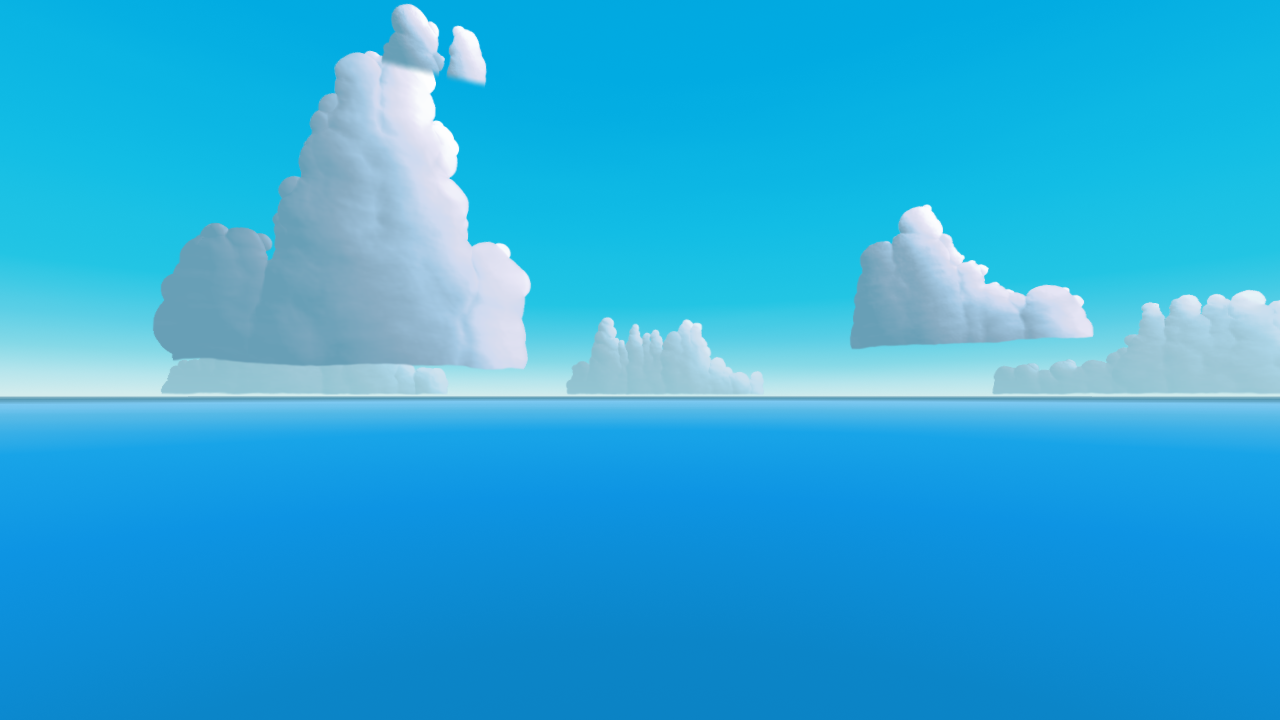
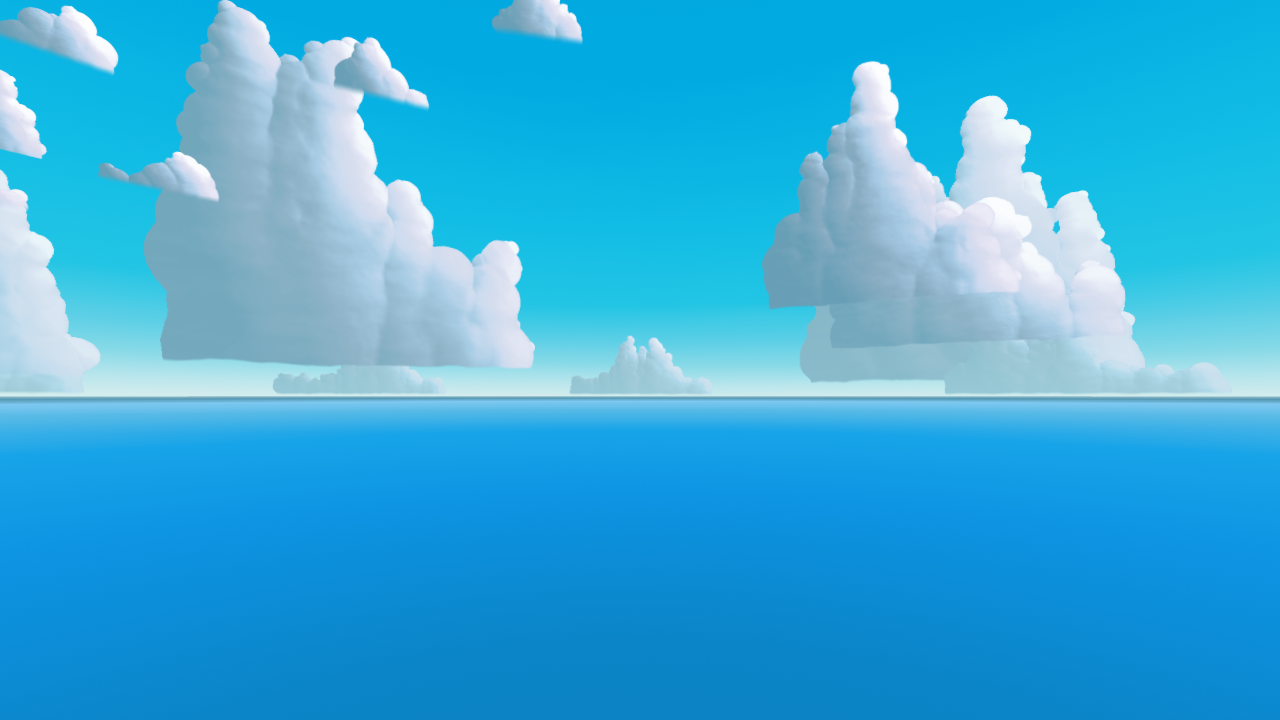
Add train motion and multiplane cloud layers
The world slides past the train along the track, and the clouds are split into
far, mid, near and overhead layers at real distances, so nearer layers drift
past faster than far ones. Panels wrap around the ends of their layer, fading
into the haze far ahead or behind. The sea's paint scrolls with the motion.
The screenshot tool can capture frames along the ride.

Claude-Session: https://claude.ai/code/session_01S8rAC1BDVDohmZcLHLrPfb

diff --git a/src/clouds.js b/src/clouds.js
@@ -223,9 +223,9 @@ const bakeScene = new THREE.Scene();
 bakeScene.add(new THREE.Mesh(new THREE.PlaneGeometry(2, 2), bakeMaterial));
 const bakeCamera = new THREE.OrthographicCamera(-1, 1, 1, -1, 0, 1);
 
-function bakeCloud(renderer, { seed, kind, sunLocal }) {
+function bakeCloud(renderer, { seed, kind, sunLocal, res = 1 }) {
   const k = KINDS[kind];
-  const [w, h] = k.size;
+  const [w, h] = k.size.map((n) => Math.round(n * res));
   const rng = mulberry32(seed);
   const puffs = layoutPuffs(rng, k);
   const { baseY, topY } = fitPuffs(puffs, w, h);
@@ -272,6 +272,7 @@ function cloudMaterial(texture, haze) {
       map: { value: texture },
       hazeColor: { value: new THREE.Color(PALETTE.sky[1][1]) },
       haze: { value: haze },
+      opacity: { value: 1 },
     },
     vertexShader: /* glsl */ `
       varying vec2 vUv;
@@ -283,14 +284,14 @@ function cloudMaterial(texture, haze) {
     fragmentShader: /* glsl */ `
       uniform sampler2D map;
       uniform vec3 hazeColor;
-      uniform float haze;
+      uniform float haze, opacity;
       varying vec2 vUv;
       void main() {
         vec4 t = texture2D(map, vUv);
-        if (t.a < 0.004) discard;
+        if (t.a * opacity < 0.004) discard;
         // Aerial perspective: distant clouds and cloud bases sink into the haze.
         vec3 c = mix(t.rgb, hazeColor, haze * (1.0 - 0.5 * vUv.y));
-        gl_FragColor = vec4(c, t.a);
+        gl_FragColor = vec4(c, t.a * opacity);
         #include <colorspace_fragment>
       }
     `,
@@ -303,73 +304,125 @@ const direction = (az, el) => new THREE.Vector3(
   -Math.cos(az * DEG) * Math.cos(el * DEG),
 );
 
-/** One cloud: azimuth/elevation of its base centre (degrees), angular width, distance. */
-function makeCloud(renderer, { az, el, width, kind, dist, seed, haze = 0 }) {
-  const mesh = new THREE.Mesh();
-  const base = direction(az, el).multiplyScalar(dist);
-  mesh.position.copy(base);
-  mesh.lookAt(0, 0, 0); // face the viewer squarely so high clouds don't skew
-  mesh.updateMatrixWorld();
+// Where the panels face: the seated passenger's eye. At cloud distances the
+// difference between the eyes or a leaning head doesn't matter.
+const VIEWPOINT = new THREE.Vector3(0, 1.2, 0);
 
+/**
+ * One cloud panel at a fixed spot in the world: `home` is the centre of its
+ * flat base (metres), `width` its width in metres.
+ */
+function makeCloud(renderer, { home, width, kind, seed, haze = 0, res = 1 }) {
   // Light the way a background painter does rather than physically: the sun
   // always rakes across the cloud from the side it is really on, slightly
   // above and in front, so every cloud shows a sunlit side and a shadow side.
   // (Physically, clouds toward the sun would be backlit and nearly black.)
-  const physical = direction(SUN.azimuth, SUN.elevation).applyQuaternion(mesh.quaternion.clone().invert());
+  const facing = new THREE.Object3D();
+  facing.position.copy(home);
+  facing.lookAt(VIEWPOINT);
+  const physical = direction(SUN.azimuth, SUN.elevation).applyQuaternion(facing.quaternion.invert());
   const side = Math.sign(physical.x) || 1;
   const sunLocal = new THREE.Vector3(side * 0.78, 0.55, 0.12).normalize(); // x right, y up, z toward the viewer
 
-  const { texture, baseFrac, aspect } = bakeCloud(renderer, { seed, kind, sunLocal });
-  const w = 2 * dist * Math.tan((width * DEG) / 2);
-  const h = w * aspect;
-  mesh.geometry = new THREE.PlaneGeometry(w, h);
-  mesh.material = cloudMaterial(texture, haze);
-  mesh.translateY(h * (0.5 - baseFrac));
+  const { texture, baseFrac, aspect } = bakeCloud(renderer, { seed, kind, sunLocal, res });
+  const h = width * aspect;
+  const mesh = new THREE.Mesh(new THREE.PlaneGeometry(width, h), cloudMaterial(texture, haze));
   mesh.name = `cloud-${kind}`;
+  mesh.userData = { home, lift: h * (0.5 - baseFrac) };
   return mesh;
 }
 
+/** Spot `dist` metres away at azimuth/elevation (degrees) seen from the passenger. */
+const at = (az, el, dist) => direction(az, el).multiplyScalar(dist).add(VIEWPOINT);
+/** Width in metres that spans `deg` degrees at `dist` metres. */
+const span = (deg, dist) => 2 * dist * Math.tan((deg * DEG) / 2);
+
+/**
+ * Multiplane sky. Each layer is a strip of painted panels along the track (x),
+ * `length` metres long, that wraps around as the train moves, so the nearer
+ * layers slide past faster than the far ones. Panels fade out near the ends of
+ * their strip, far ahead or behind, before they wrap.
+ */
 export function createClouds(renderer, seed = 7) {
   const group = new THREE.Group();
   group.name = 'clouds';
   const rng = mulberry32(seed);
   let s = seed * 1000;
+  const layers = [];
+  const layer = (name, length) => {
+    const l = { name, length, clouds: [] };
+    layers.push(l);
+    return l;
+  };
+  const add = (l, spec) => {
+    const mesh = makeCloud(renderer, { ...spec, seed: s++ });
+    l.clouds.push(mesh);
+    group.add(mesh);
+  };
 
-  // Big set pieces, placed by hand for a good composition out of the window.
-  const heroes = [
-    { az: -28, el: 3.0, width: 40, kind: 'tower', dist: 2200 },
-    { az: 32, el: 5.0, width: 30, kind: 'hero', dist: 2000 },
-    { az: 78, el: 4.0, width: 34, kind: 'tower', dist: 2100 },
-    { az: -85, el: 7.0, width: 28, kind: 'hero', dist: 1900 },
-    { az: 135, el: 3.5, width: 36, kind: 'tower', dist: 2300 },
-    { az: -140, el: 9.0, width: 26, kind: 'hero', dist: 1900 },
-    { az: 180, el: 14.0, width: 22, kind: 'hero', dist: 1800 },
-  ];
-  for (const c of heroes) group.add(makeCloud(renderer, { ...c, seed: s++ }));
-
-  // Small fair-weather clouds higher up.
-  for (let i = 0; i < 14; i++) {
-    group.add(makeCloud(renderer, {
-      az: -180 + (i + rng() * 0.8) * (360 / 14),
-      el: 22 + rng() * 30,
-      width: 7 + rng() * 9,
-      kind: 'small',
-      dist: 1600 + rng() * 400,
-      seed: s++,
-    }));
+  // Far: the hazy bank along the horizon and distant towers. Barely moves.
+  const far = layer('far', 12000);
+  for (let i = 0; i < 12; i++) {
+    const dist = 3000;
+    add(far, { home: at(i * 30 + rng() * 10, 0.2, dist), width: span(40 + rng() * 10, dist), kind: 'bank', haze: 0.55, res: 0.7 });
+  }
+  for (const az of [-60, 20, 110, -150]) {
+    const dist = 2800;
+    add(far, { home: at(az + rng() * 20, 1.5, dist), width: span(26 + rng() * 10, dist), kind: 'tower', haze: 0.35, res: 0.6 });
   }
 
-  // A low bank of cloud right along the horizon, all the way round.
-  for (let i = 0; i < 9; i++) {
-    group.add(makeCloud(renderer, {
-      az: i * 40 + rng() * 14,
-      el: 0.2,
-      width: 46 + rng() * 10,
-      kind: 'bank',
-      dist: 2800,
-      seed: s++,
-      haze: 0.5,
-    }));
+  // Mid: the big set pieces, placed by hand for the view out of the window.
+  const mid = layer('mid', 9000);
+  for (const c of [
+    { az: -28, el: 3.0, deg: 40, kind: 'tower', dist: 1900 },
+    { az: 32, el: 5.0, deg: 30, kind: 'hero', dist: 1700 },
+    { az: 78, el: 4.0, deg: 34, kind: 'tower', dist: 1800 },
+    { az: -85, el: 7.0, deg: 28, kind: 'hero', dist: 1600 },
+    { az: 135, el: 3.5, deg: 36, kind: 'tower', dist: 1900 },
+    { az: -140, el: 9.0, deg: 26, kind: 'hero', dist: 1600 },
+    { az: 180, el: 12.0, deg: 22, kind: 'hero', dist: 1500 },
+  ]) {
+    add(mid, { home: at(c.az, c.el, c.dist), width: span(c.deg, c.dist), kind: c.kind, haze: 0.12, res: 0.85 });
   }
-  return group;
+
+  // Near: big, crisp clouds that drift past noticeably.
+  const near = layer('near', 8000);
+  for (let i = 0; i < 8; i++) {
+    const x = -4000 + (i + 0.2 + rng() * 0.6) * 1000;
+    const z = (i % 2 ? 1 : -1) * (550 + rng() * 350);
+    const dist = Math.hypot(x, z);
+    const y = VIEWPOINT.y + dist * Math.tan((5 + rng() * 5) * DEG);
+    add(near, { home: new THREE.Vector3(x, y, z), width: 280 + rng() * 220, kind: rng() < 0.5 ? 'tower' : 'hero' });
+  }
+
+  // Overhead: small fair-weather clouds above the train. Fastest of all.
+  const high = layer('high', 6000);
+  for (let i = 0; i < 24; i++) {
+    const big = i % 4 === 0;
+    const alt = big ? 750 + rng() * 250 : 450 + rng() * 300;
+    const x = -3000 + (i + rng()) * (6000 / 24);
+    const z = (rng() < 0.5 ? 1 : -1) * (alt * 0.5 + rng() * 1300);
+    add(high, big
+      ? { home: new THREE.Vector3(x, alt, z), width: 380 + rng() * 220, kind: 'hero', res: 0.8 }
+      : { home: new THREE.Vector3(x, alt, z), width: 150 + rng() * 170, kind: 'small' });
+  }
+
+  const pos = new THREE.Vector3();
+  /** Slide every layer to where it is when the train has travelled `travelled` metres along +x. */
+  function update(travelled) {
+    for (const l of layers) {
+      const half = l.length / 2;
+      for (const mesh of l.clouds) {
+        const { home, lift } = mesh.userData;
+        const x = THREE.MathUtils.euclideanModulo(home.x - travelled + half, l.length) - half;
+        pos.set(x, home.y, home.z);
+        mesh.position.copy(pos);
+        mesh.lookAt(VIEWPOINT); // face the passenger squarely so high clouds don't skew
+        mesh.translateY(lift);
+        mesh.material.uniforms.opacity.value = 1 - THREE.MathUtils.smoothstep(Math.abs(x), half * 0.7, half);
+      }
+    }
+  }
+  update(0);
+  return { group, update };
 }

diff --git a/src/main.js b/src/main.js
@@ -4,6 +4,7 @@ import { createClouds } from './clouds.js';
 import { createWater } from './water.js';
 import { PALETTE, PALETTE_NAME } from './palette.js';
 import { setupVRButton } from './vr-button.js';
+import { createMotion } from './motion.js';
 
 const EYE_HEIGHT = 1.2; // seated, metres above the train floor
 
@@ -21,7 +22,15 @@ const camera = new THREE.PerspectiveCamera(70, window.innerWidth / window.innerH
 camera.position.set(0, EYE_HEIGHT, 0);
 camera.rotation.order = 'YXZ';
 
-scene.add(createSky(), createWater(), createClouds(renderer));
+const water = createWater();
+const clouds = createClouds(renderer);
+scene.add(createSky(), water, clouds.group);
+
+const motion = createMotion();
+function placeWorld(travelled) {
+  clouds.update(travelled);
+  water.material.uniforms.travelled.value = travelled;
+}
 
 // Desktop: drag to look around.
 const look = { yaw: 0, pitch: 4 };
@@ -53,17 +62,22 @@ window.addEventListener('resize', () => {
 
 setupVRButton(renderer);
 
+const clock = new THREE.Clock();
 let frames = 0;
 renderer.setAnimationLoop(() => {
+  placeWorld(motion.step(clock.getDelta()));
   renderer.render(scene, camera);
   if (++frames === 2) window.__ready = true;
 });
 
-// Hook for the screenshot tool: window.__view(yawDeg, pitchDeg).
-window.__view = (yaw, pitch) => {
+// Hooks for the screenshot tool: window.__view(yawDeg, pitchDeg, travelledMetres).
+window.__view = (yaw, pitch, travelled = 0) => {
+  renderer.setAnimationLoop(null);
   look.yaw = yaw;
   look.pitch = pitch;
   applyLook();
+  motion.set(travelled);
+  placeWorld(travelled);
   renderer.render(scene, camera);
 };
 document.getElementById('palette-name').textContent = PALETTE_NAME;

diff --git a/src/water.js b/src/water.js
@@ -2,6 +2,7 @@
  * Module 3 (placeholder): a calm sea out to the horizon.
  * Colored by how far below the horizon you look, from the palette ramp.
  * Glitter, ripples and reflections come in the full water module.
+ * The plane stays centred on the train; its paint scrolls with `travelled`.
  */
 import * as THREE from 'three';
 import { PALETTE } from './palette.js';
@@ -11,6 +12,7 @@ export const WATER_Y = -1.2;
 
 export function createWater() {
   const material = new THREE.ShaderMaterial({
+    uniforms: { travelled: { value: 0 } },
     vertexShader: /* glsl */ `
       varying vec3 vWorld;
       void main() {
@@ -20,6 +22,7 @@ export function createWater() {
       }
     `,
     fragmentShader: /* glsl */ `
+      uniform float travelled;
       varying vec3 vWorld;
       ${COMMON_GLSL}
       ${rampGLSL('waterRamp', PALETTE.water)}
@@ -28,7 +31,7 @@ export function createWater() {
         float dist = length(rel);
         float dep = degrees(atan(cameraPosition.y - vWorld.y, dist));
         // Flat, horizontal paint bands that stretch with distance.
-        float band = fbm(vec2(vWorld.x * 0.004, vWorld.z * 0.05)) - 0.5;
+        float band = fbm(vec2((vWorld.x + travelled) * 0.004, vWorld.z * 0.05)) - 0.5;
         vec3 c = waterRamp(max(dep * (1.0 + band * 0.25), 0.0));
         gl_FragColor = vec4(srgbToLinear(dither(c, gl_FragCoord.xy)), 1.0);
         #include <colorspace_fragment>

diff --git a/src/motion.js b/src/motion.js
@@ -1,0 +1,25 @@
+/**
+ * Module 4: the train's motion.
+ * The train stays at the origin and the world slides past it along -x, so
+ * the passenger's view out of the -z window scrolls from right to left.
+ * Speed in metres per second can be set with ?speed=<m/s> (0 to stop).
+ */
+const requested = new URLSearchParams(globalThis.location?.search ?? '').get('speed');
+export const SPEED = requested !== null && Number(requested) >= 0 ? Number(requested) : 14;
+
+export function createMotion(speed = SPEED) {
+  let travelled = 0;
+  return {
+    get travelled() {
+      return travelled;
+    },
+    step(dt) {
+      // Clamp long frames (tab in background, headset taken off) so nothing jumps.
+      travelled += speed * Math.min(dt, 0.1);
+      return travelled;
+    },
+    set(metres) {
+      travelled = metres;
+    },
+  };
+}

diff --git a/README.md b/README.md
@@ -15,6 +15,7 @@ npm install
 npm start          # http://localhost:8080 on desktop (drag to look around)
                    # https://<LAN-ip>:8443 on a Quest (accept the certificate warning once)
 npm run shot       # screenshots from six directions -> docs/screenshots/
+npm run shot -- --frames=48 --travel=900   # frames of the ride, for checking parallax
 ```
 
 Add `?palette=summer` or `?palette=castle` to the URL to try another palette.
@@ -38,9 +39,9 @@ Each module is a working build you can open in the headset before the next one i
 |---|--------|--------|
 | 0 | Groundwork: Three.js + WebXR, dev server, Pages deploy | done |
 | 1 | Palette sampled from reference stills, with switchable presets | done |
-| 2 | Sky: painted gradient dome and procedurally painted cumulus clouds | first pass |
+| 2 | Sky: painted gradient dome; cumulus painted on the GPU as lit volumes, arranged in four parallax layers (far, mid, near, overhead) | in progress |
 | 3 | Water: sun glitter painted as dabs, ripples, cloud reflections | placeholder only |
-| 4 | Motion: the world slides past at a gentle train speed | |
+| 4 | Motion: the world slides past at a gentle train speed (`?speed=<m/s>`, default 14) | first pass |
 | 5 | Distant scenery: island with houses, poles, far shoreline in haze | |
 | 6 | Train car: red seats, wood window frames, hand rings, sway | |
 | 7 | Painterly finish: soft edges, paper grain, color grading | |
